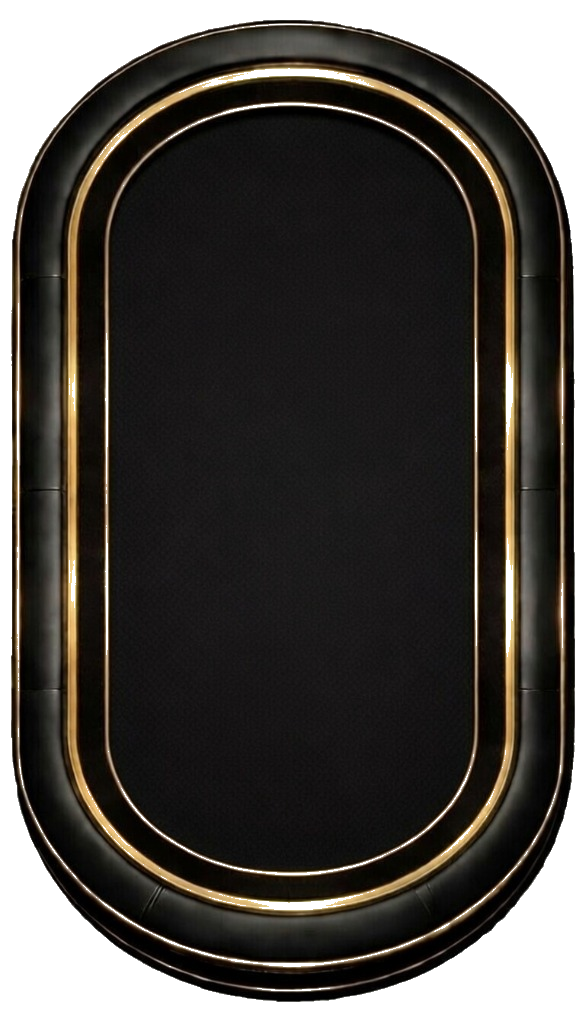
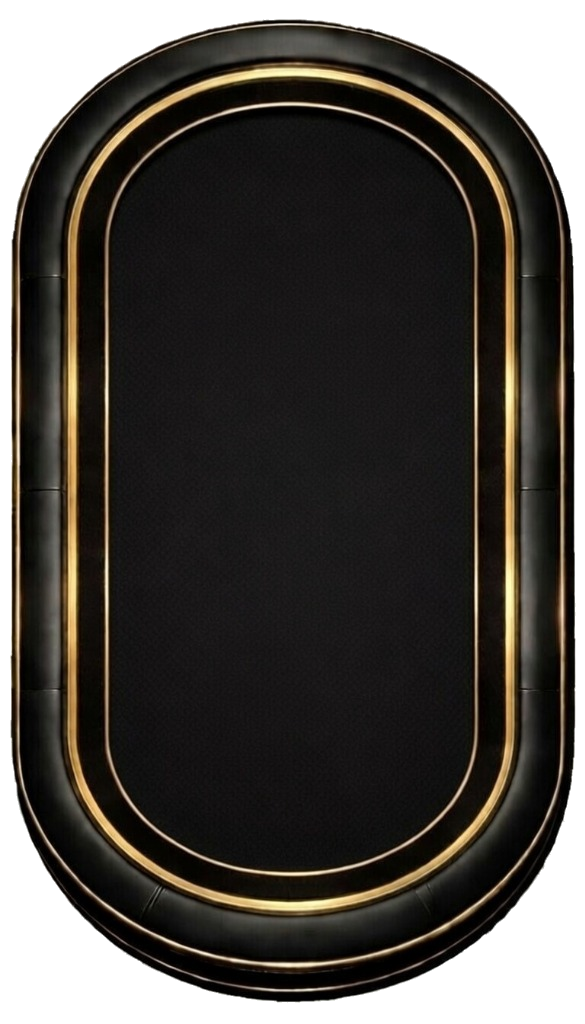
fix: improve gold trim quality on table - re-processed with floodfill method

diff --git a/src/world/components/LiveHelp/LiveHelpPanel.tsx b/src/world/components/LiveHelp/LiveHelpPanel.tsx
@@ -181,24 +181,9 @@ export function LiveHelpPanel({
                         />
                     ))}
 
-                    {/* Typing indicator */}
+                    {/* Enhanced Typing indicator */}
                     {isAgentTyping && (
-                        <div
-                            style={{
-                                display: 'flex',
-                                alignItems: 'center',
-                                gap: 8,
-                                padding: '12px 16px',
-                                background: 'rgba(0, 212, 255, 0.1)',
-                                borderRadius: 12,
-                                alignSelf: 'flex-start',
-                            }}
-                        >
-                            <span style={{ color: currentAgent.avatarColor, fontWeight: 600 }}>
-                                {currentAgent.name}
-                            </span>
-                            <TypingDots />
-                        </div>
+                        <EnhancedTypingIndicator />
                     )}
                     <div ref={messagesEndRef} />
                 </div>
@@ -229,6 +214,12 @@ export function LiveHelpPanel({
                             fontSize: 14,
                             outline: 'none',
                         }}
+                    />
+                    <VoiceInput
+                        onTranscript={(text) => {
+                            onInputChange(inputValue + (inputValue ? ' ' : '') + text);
+                        }}
+                        onError={(error) => console.error('Voice input error:', error)}
                     />
                     <button
                         onClick={handleSend}
@@ -352,6 +343,30 @@ function MessageBubble({ message, agent }: MessageBubbleProps) {
                     {message.content}
                 </p>
             </div>
+
+            {/* Reactions and Copy Button for Jarvis messages */}
+            {!isUser && (
+                <div style={{
+                    display: 'flex',
+                    gap: '8px',
+                    marginTop: '8px',
+                    marginLeft: '12px'
+                }}>
+                    <CopyButton
+                        content={message.content}
+                        onCopy={() => {
+                            // Track copy event
+                            console.log('Message copied:', message.id);
+                        }}
+                    />
+                    <MessageReactions
+                        messageId={message.id}
+                        onReact={(reaction) => {
+                            console.log('Reaction:', reaction, 'for message:', message.id);
+                        }}
+                    />
+                </div>
+            )}
         </div>
     );
 }
